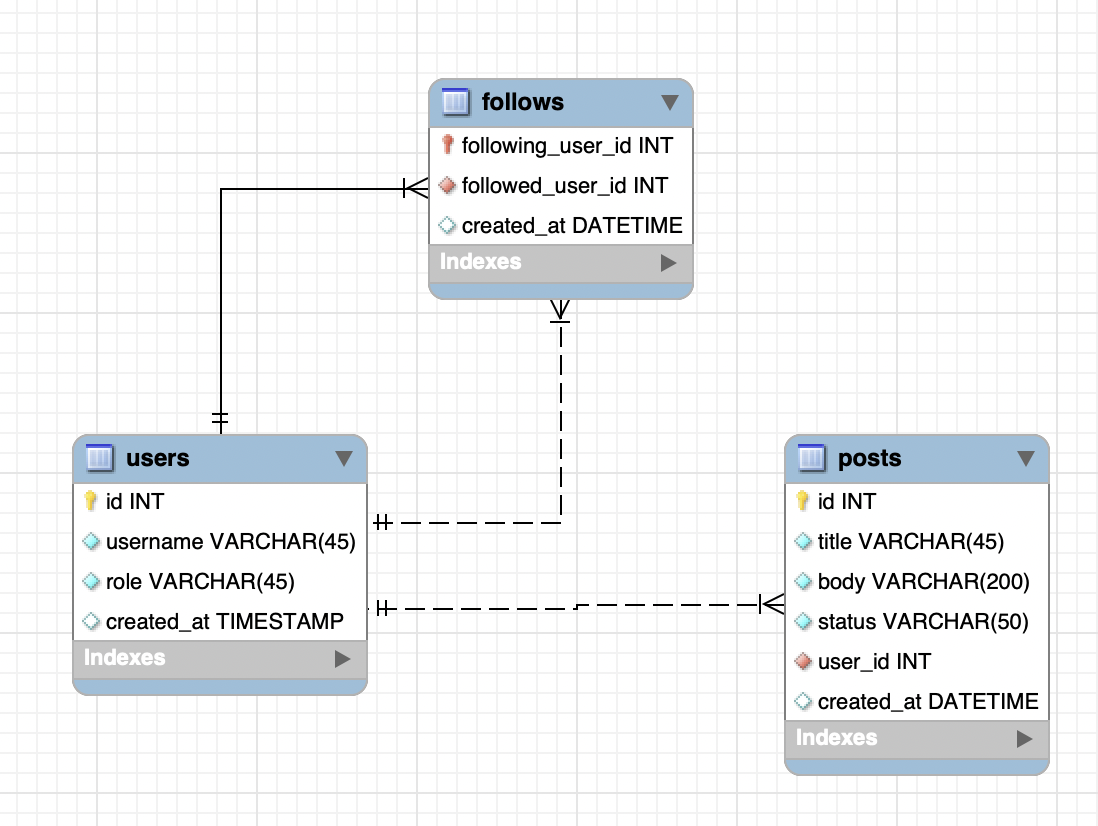
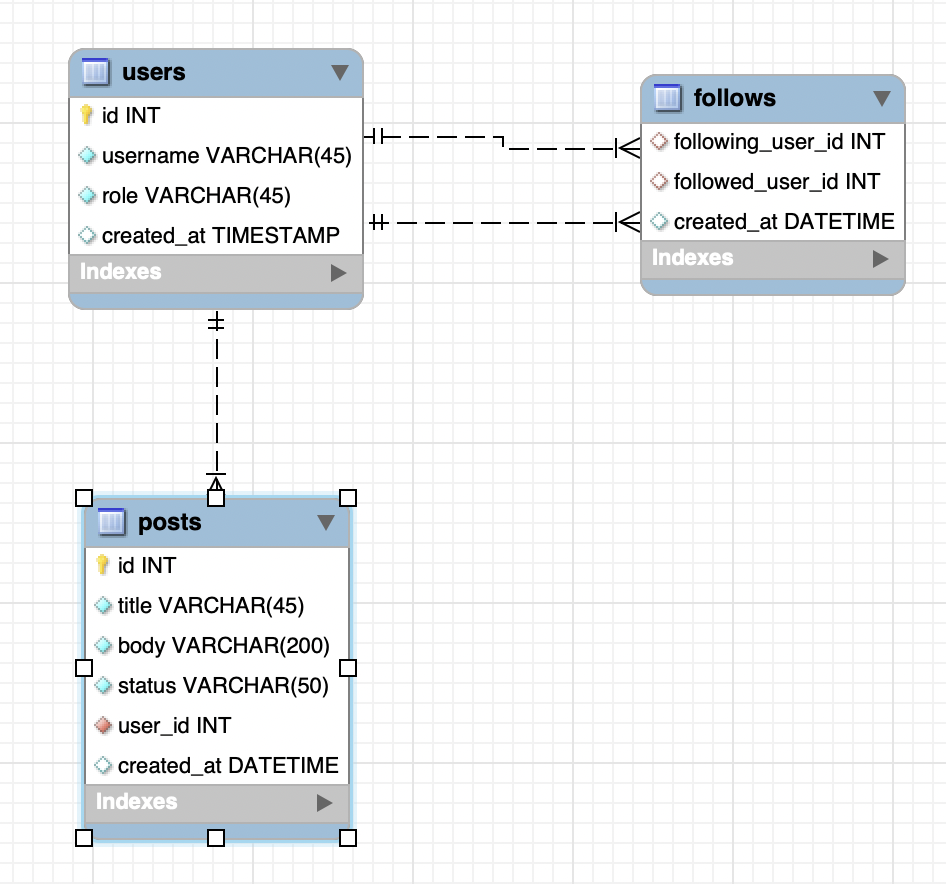
fixed primary key to foreign in follows

diff --git a/homework3/index.js b/homework3/index.js
@@ -12,6 +12,8 @@ app.get('/', (req, res) => {
     res.send('Homework 3')
 });
 
+/* This is the homework3 API I created the database using the MySQL WorkBench */
+
 // USERS ENDPOINTS
 
 

diff --git a/homework2/api_product.js b/homework2/api_product.js
@@ -111,5 +111,5 @@ document.addEventListener("DOMContentLoaded", function () {
 
 });
 
-
+//The API is storing the products where the users should go.
 
